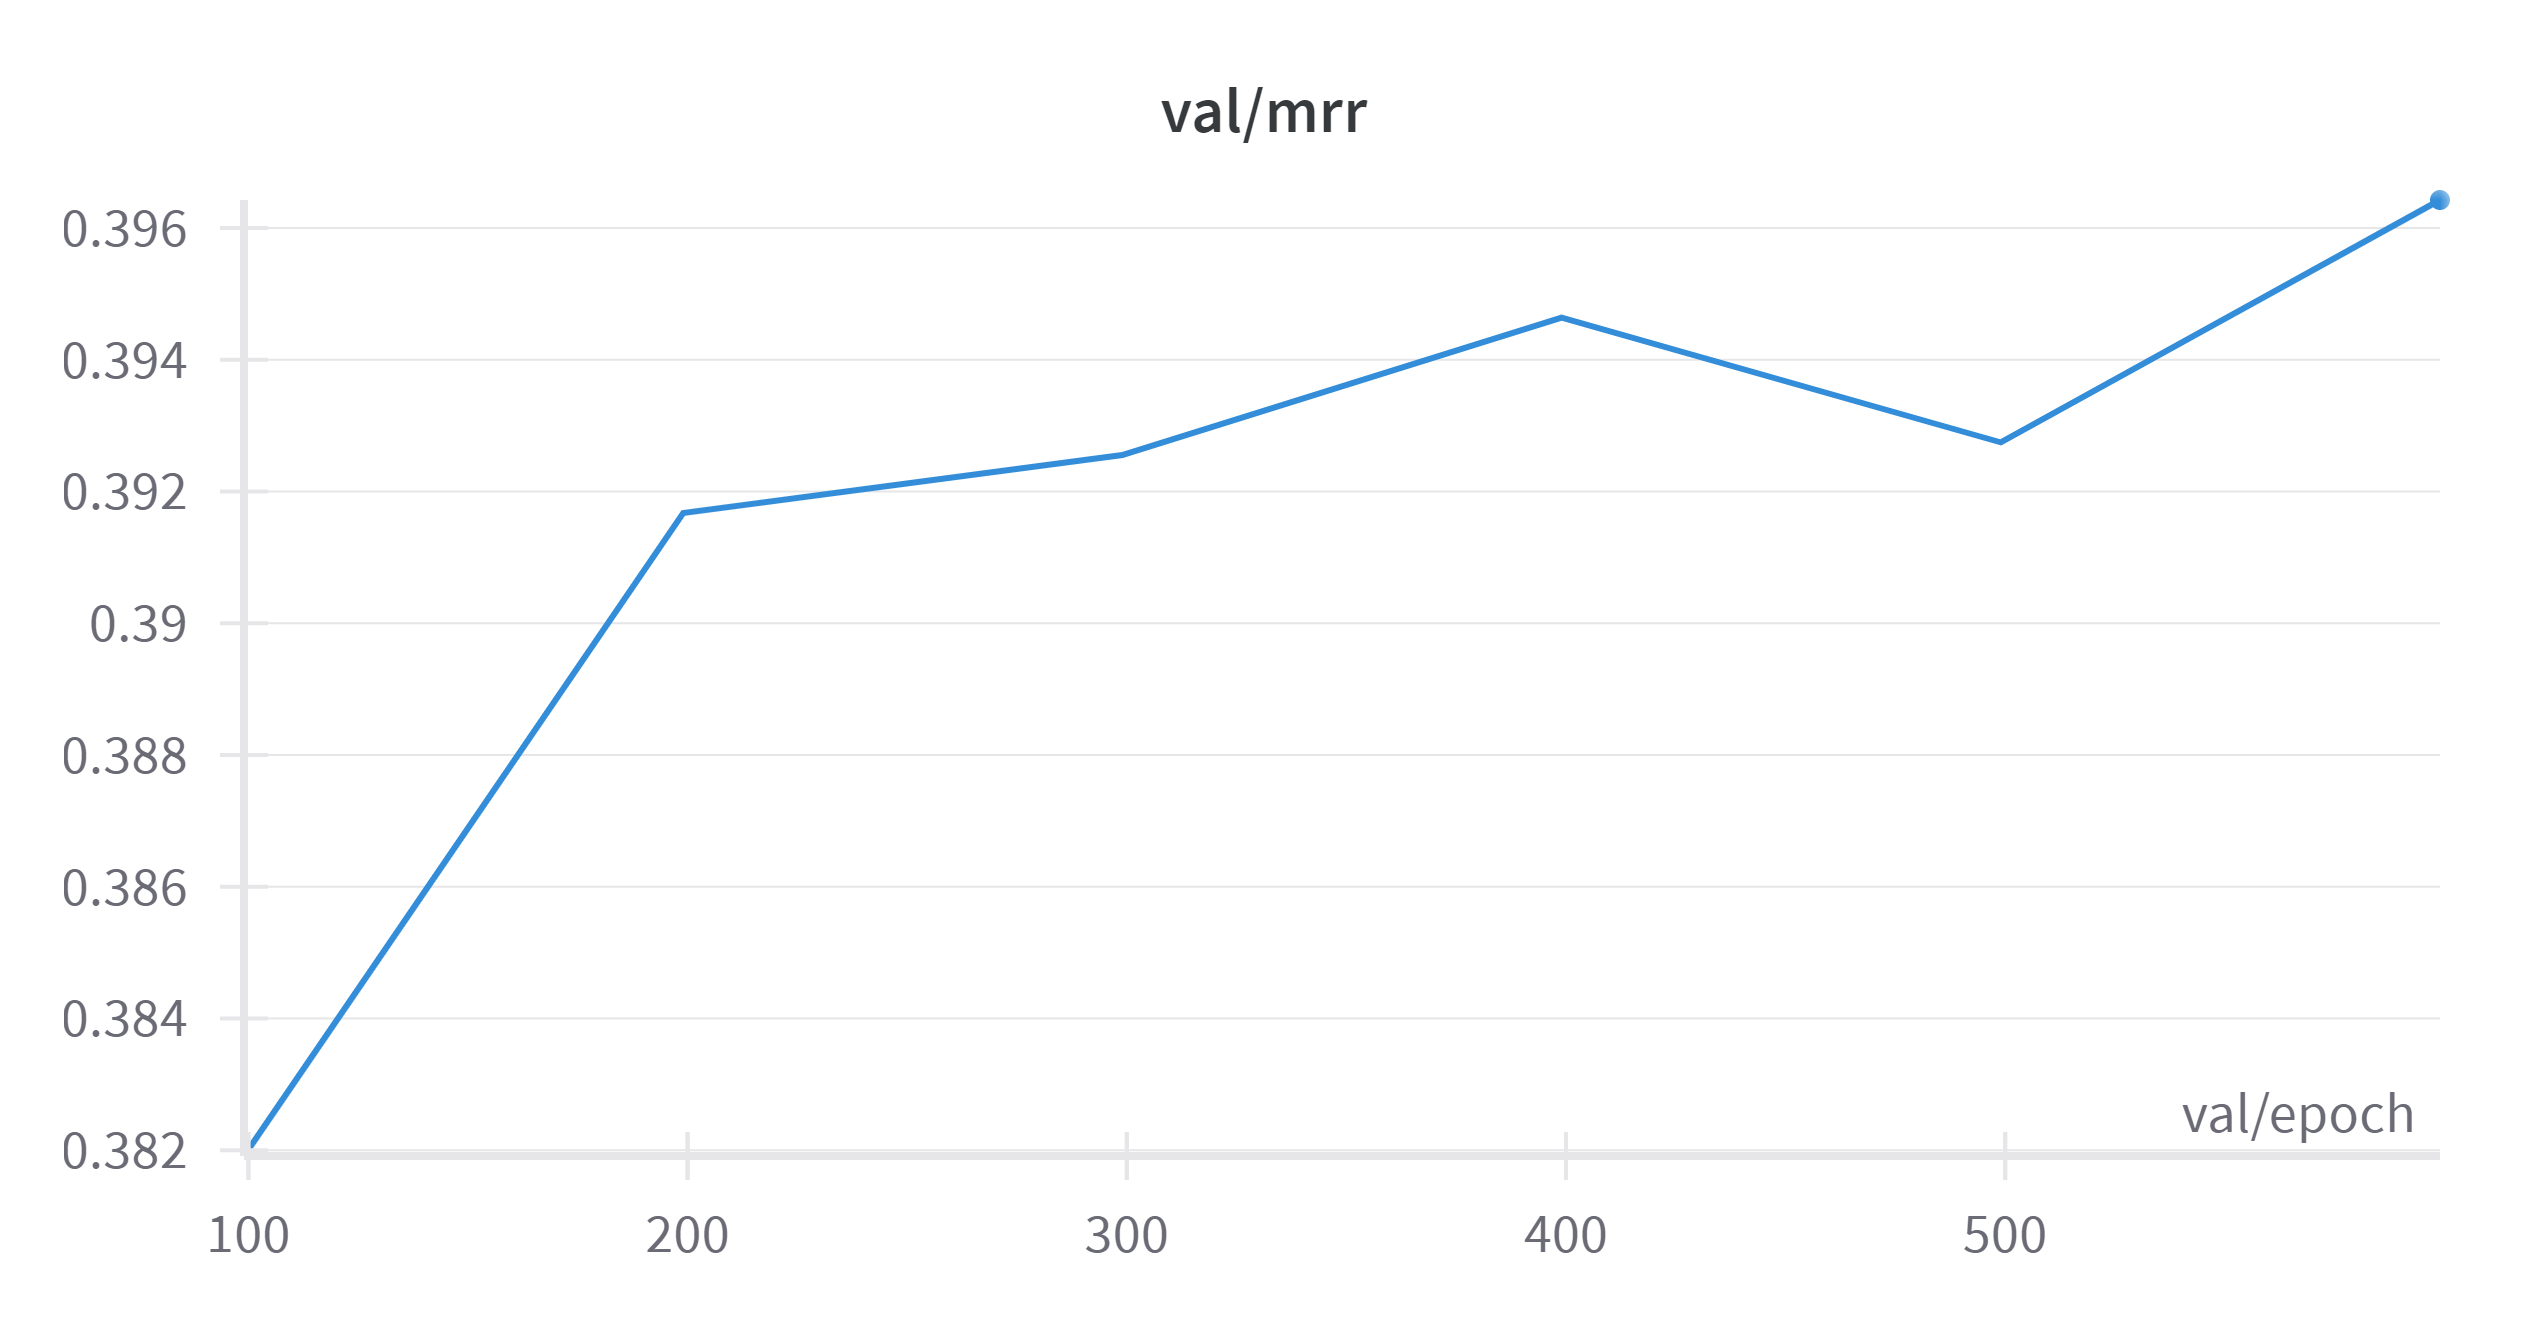
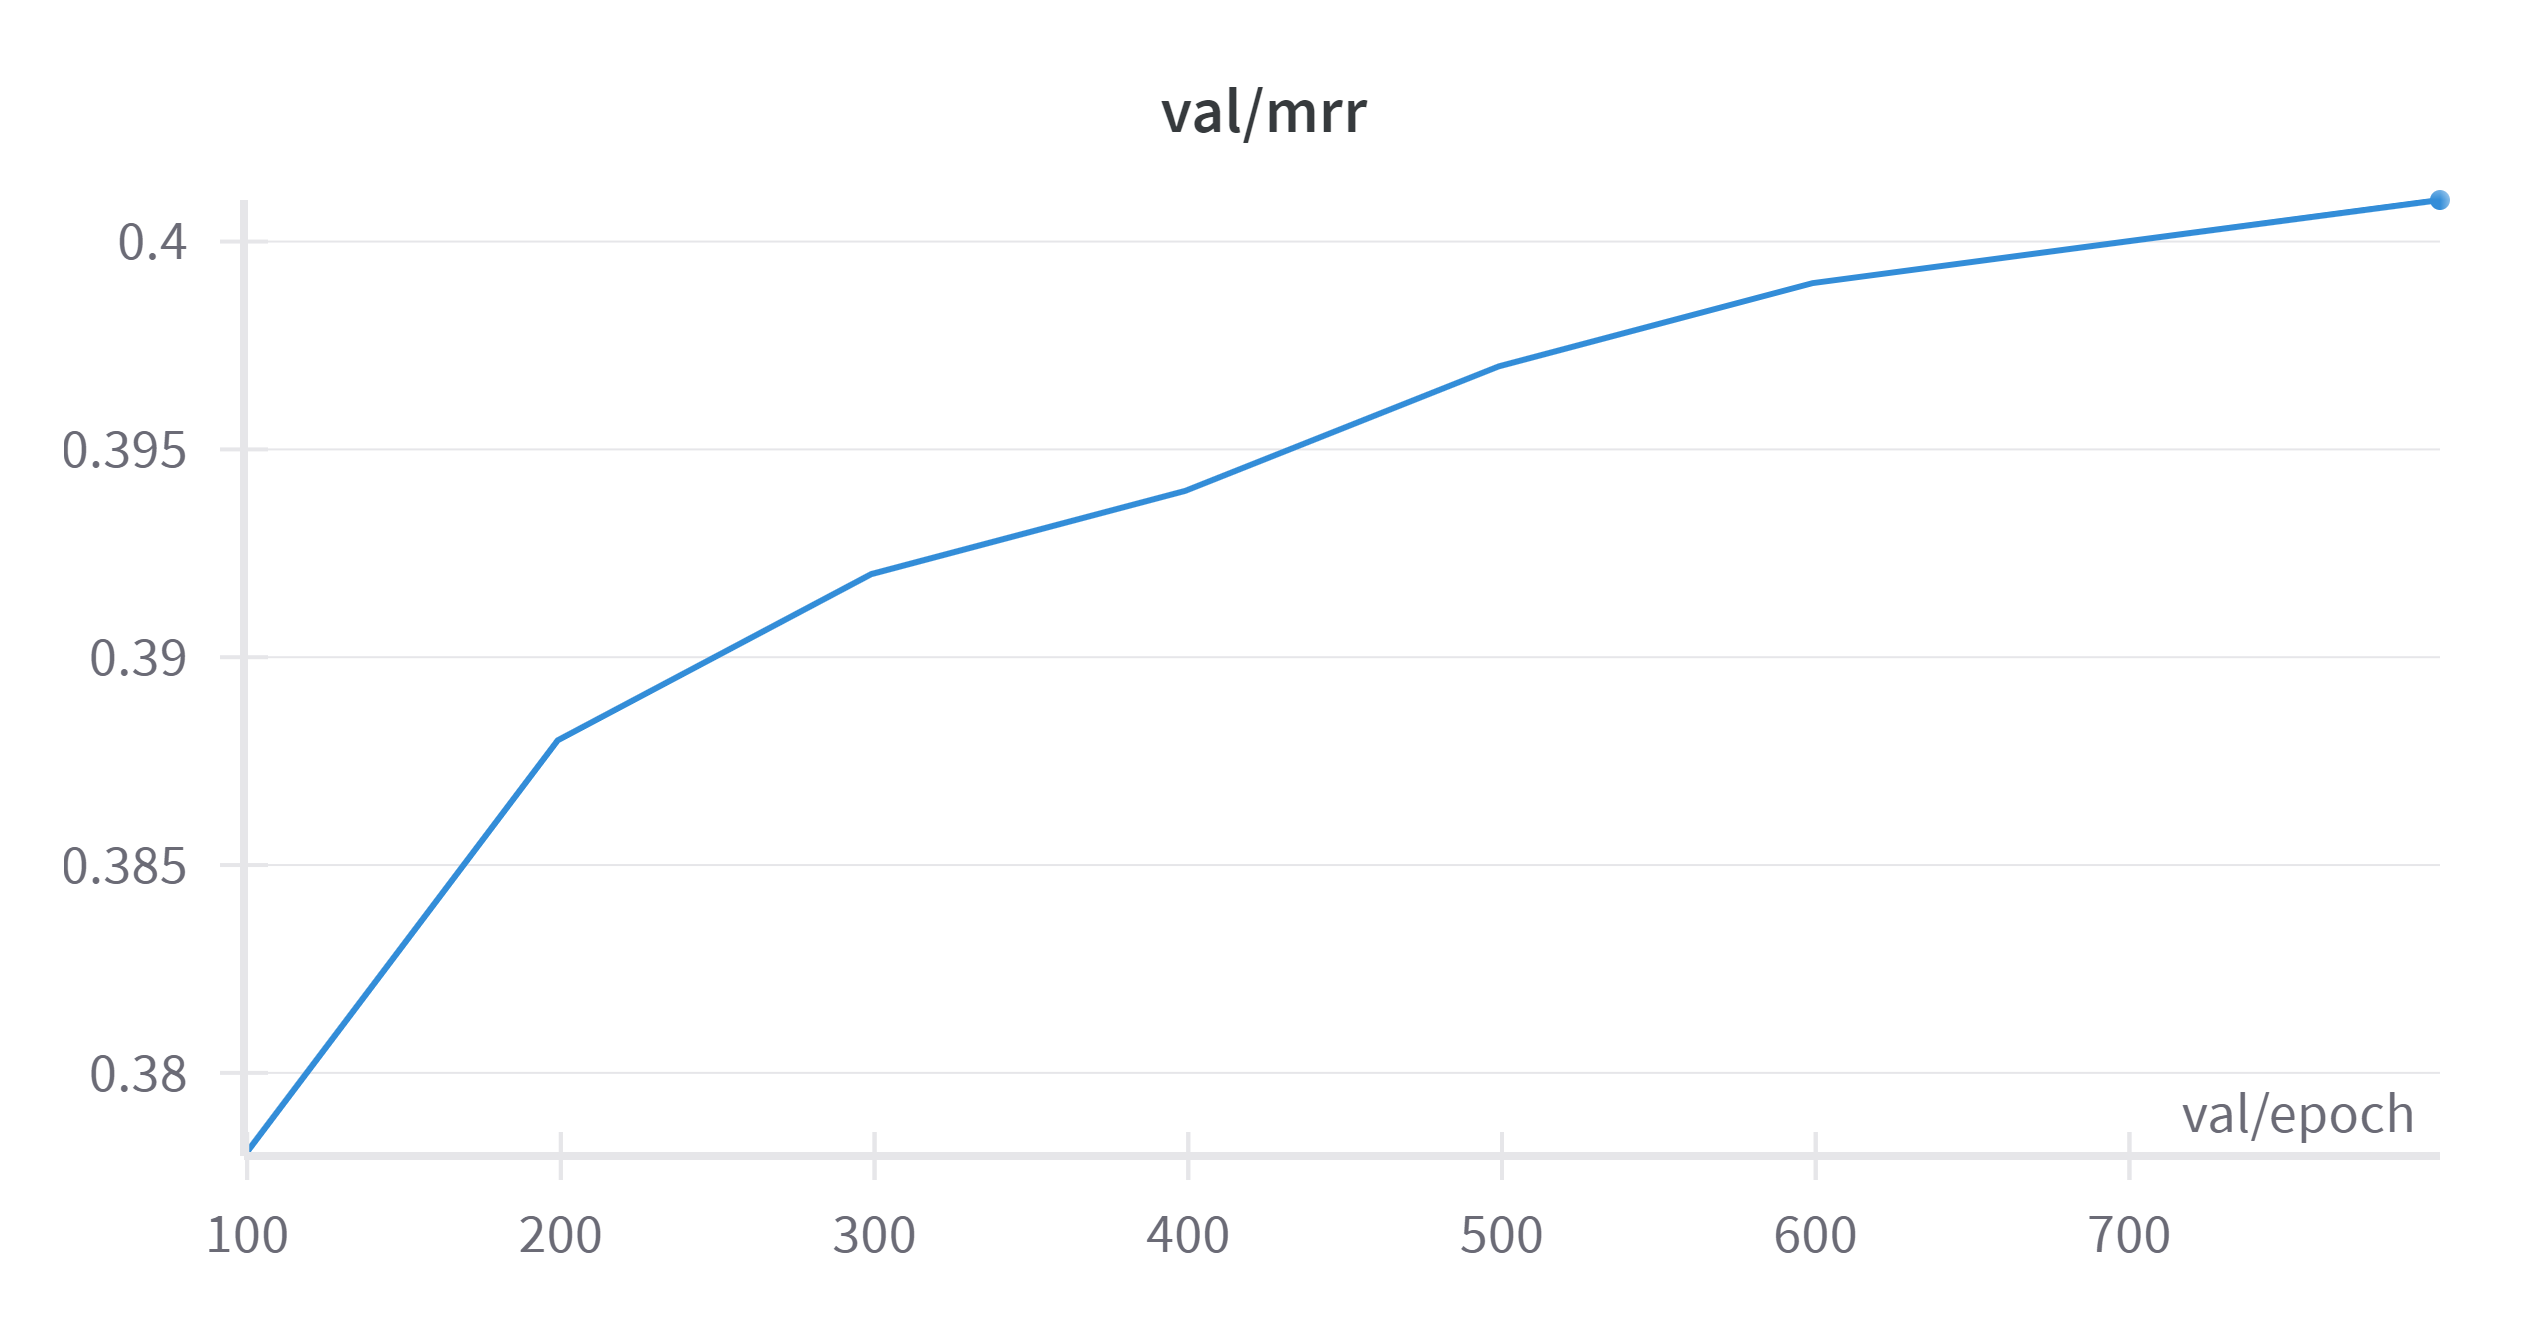
修改 SimplE 实现

diff --git a/pybind11_ke/module/model/SimplE.py b/pybind11_ke/module/model/SimplE.py
@@ -91,55 +91,94 @@ class SimplE(Model):
         
         #: 实体嵌入向量和关系嵌入向量的维度
         self.dim: int = dim
-        #: 根据实体个数，创建的头实体嵌入
-        self.ent_h_embeddings: torch.nn.Embedding = nn.Embedding(self.ent_tol, self.dim)
-        #: 根据实体个数，创建的尾实体嵌入
-        self.ent_t_embeddings: torch.nn.Embedding = nn.Embedding(self.ent_tol, self.dim)
+
+        #: 根据实体个数，创建的实体嵌入
+        self.ent_embeddings: torch.nn.Embedding = nn.Embedding(self.ent_tol, self.dim * 2)
         #: 根据关系个数，创建的关系嵌入
-        self.rel_embeddings: torch.nn.Embedding = nn.Embedding(self.rel_tol, self.dim)
-        #: 根据关系个数，创建的逆关系嵌入
-        self.rel_inv_embeddings: torch.nn.Embedding = nn.Embedding(self.rel_tol, self.dim)
+        self.rel_embeddings: torch.nn.Embedding = nn.Embedding(self.rel_tol, self.dim * 2)
 
-        sqrt_size = 6.0 / math.sqrt(self.dim)
-        nn.init.uniform_(self.ent_h_embeddings.weight.data, -sqrt_size, sqrt_size)
-        nn.init.uniform_(self.ent_t_embeddings.weight.data, -sqrt_size, sqrt_size)
-        nn.init.uniform_(self.rel_embeddings.weight.data, -sqrt_size, sqrt_size)
-        nn.init.uniform_(self.rel_inv_embeddings.weight.data, -sqrt_size, sqrt_size)
-
-    @override   
-    def forward(
-        self,
-        data: dict[str, typing.Union[torch.Tensor, str]]) -> torch.Tensor:
+        nn.init.xavier_uniform_(self.ent_embeddings.weight.data)
+        nn.init.xavier_uniform_(self.rel_embeddings.weight.data)
         
         """
         定义每次调用时执行的计算。
         :py:class:`torch.nn.Module` 子类必须重写 :py:meth:`torch.nn.Module.forward`。
         利用 :py:func:`torch.clamp` 裁剪最后的的得分，防止遇到 NaN 问题。
+        """
+
+    @override
+    def forward(
+        self,
+        triples: torch.Tensor,
+        negs: torch.Tensor = None,
+        mode: str = 'single') -> torch.Tensor:
         
-        :param data: 数据。
-        :type data: dict[str, typing.Union[torch.Tensor, str]]
+        """
+        定义每次调用时执行的计算。
+        :py:class:`torch.nn.Module` 子类必须重写 :py:meth:`torch.nn.Module.forward`。
+        
+        :param triples: 正确的三元组
+        :type triples: torch.Tensor
+        :param negs: 负三元组类别
+        :type negs: torch.Tensor
+        :param mode: 模式
+        :type triples: str
+        :returns: 三元组的得分
+        :rtype: torch.Tensor
+		"""
+
+        head_emb, relation_emb, tail_emb = self.tri2emb(triples, negs, mode)
+        score = self._calc(head_emb, relation_emb, tail_emb)
+        return score
+
+    def _calc(
+        self,
+        h: torch.Tensor,
+        r: torch.Tensor,
+        t: torch.Tensor) -> torch.Tensor:
+        
+        """计算 SimplE 的评分函数。
+        
+        :param h: 头实体的向量。
+        :type h: torch.Tensor
+        :param r: 关系的向量。
+        :type r: torch.Tensor
+        :param t: 尾实体的向量。
+        :type t: torch.Tensor
         :returns: 三元组的得分
         :rtype: torch.Tensor
         """
 
-        batch_h = data['batch_h']
-        batch_t = data['batch_t']
-        batch_r = data['batch_r']
-
-        hh_embs = self.ent_h_embeddings(batch_h)
-        ht_embs = self.ent_h_embeddings(batch_t)
-        th_embs = self.ent_t_embeddings(batch_h)
-        tt_embs = self.ent_t_embeddings(batch_t)
-        r_embs = self.rel_embeddings(batch_r)
-        r_inv_embs = self.rel_inv_embeddings(batch_r)
+        hh_embs, th_embs = torch.chunk(h, 2, dim=-1)
+        r_embs, r_inv_embs = torch.chunk(r, 2, dim=-1)
+        ht_embs, tt_embs = torch.chunk(t, 2, dim=-1)
 
         scores1 = torch.sum(hh_embs * r_embs * tt_embs, -1)
         scores2 = torch.sum(ht_embs * r_inv_embs * th_embs, -1)
-
+        
         # Without clipping, we run into NaN problems.
         # 基于论文作者的实现。
         return torch.clamp((scores1 + scores2) / 2, -20, 20)
+
+    @override
+    def predict(
+        self,
+        data: dict[str, typing.Union[torch.Tensor,str]],
+        mode) -> torch.Tensor:
         
+        """SimplE 的推理方法。
+        
+        :param data: 数据。
+        :type data: dict[str, typing.Union[torch.Tensor,str]]
+        :returns: 三元组的得分
+        :rtype: torch.Tensor
+        """
+
+        triples = data["positive_sample"]
+        head_emb, relation_emb, tail_emb = self.tri2emb(triples, mode=mode)
+        score = self._calc(head_emb, relation_emb, tail_emb)
+        return score
+
     def regularization(
         self,
         data: dict[str, typing.Union[torch.Tensor, str]]) -> torch.Tensor:
@@ -152,41 +191,26 @@ class SimplE(Model):
         :rtype: torch.Tensor
         """
 
-        batch_h = data['batch_h']
-        batch_t = data['batch_t']
-        batch_r = data['batch_r']
-
-        hh_embs = self.ent_h_embeddings(batch_h)
-        ht_embs = self.ent_h_embeddings(batch_t)
-        th_embs = self.ent_t_embeddings(batch_h)
-        tt_embs = self.ent_t_embeddings(batch_t)
-        r_embs = self.rel_embeddings(batch_r)
-        r_inv_embs = self.rel_inv_embeddings(batch_r)
-
-        regul = (torch.mean(hh_embs ** 2) + 
-                 torch.mean(ht_embs ** 2) + 
-                 torch.mean(th_embs ** 2) +
-                 torch.mean(tt_embs ** 2) +
-                 torch.mean(r_embs ** 2) +
-                 torch.mean(r_inv_embs ** 2)) / 6
+        pos_sample = data["positive_sample"]
+        neg_sample = data["negative_sample"]
+        mode = data["mode"]
+        pos_head_emb, pos_relation_emb, pos_tail_emb = self.tri2emb(pos_sample)
+        if mode == "bern":
+            neg_head_emb, neg_relation_emb, neg_tail_emb = self.tri2emb(neg_sample)
+        else:
+            neg_head_emb, neg_relation_emb, neg_tail_emb = self.tri2emb(pos_sample, neg_sample, mode)
+            
+        pos_regul = (torch.mean(pos_head_emb ** 2) + 
+                     torch.mean(pos_relation_emb ** 2) + 
+                     torch.mean(pos_tail_emb ** 2)) / 3
+                     
+        neg_regul = (torch.mean(neg_head_emb ** 2) + 
+                     torch.mean(neg_relation_emb ** 2) + 
+                     torch.mean(neg_tail_emb ** 2)) / 3
+                     
+        regul = (pos_regul + neg_regul) / 2
 
         return regul
-
-    @override
-    def predict(
-        self,
-        data: dict[str, typing.Union[torch.Tensor,str]]) -> np.ndarray:
-
-        """SimplE 的推理方法。
-        
-        :param data: 数据。
-        :type data: dict[str, typing.Union[torch.Tensor,str]]
-        :returns: 三元组的得分
-        :rtype: numpy.ndarray
-        """
-        
-        score = -self.forward(data)
-        return score.cpu().data.numpy()
 
 def get_simple_hpo_config() -> dict[str, dict[str, typing.Any]]:
 

diff --git a/examples/SimplE/single_gpu_simple_WN18RR_wandb.py b/examples/SimplE/single_gpu_simple_WN18RR_wandb.py
@@ -9,31 +9,29 @@ SimplE-WN18RR-single-gpu-wandb
 
 导入数据
 -----------------
-pybind11-OpenKE 有两个工具用于导入数据: :py:class:`pybind11_ke.data.TrainDataLoader` 和
-:py:class:`pybind11_ke.data.TestDataLoader`。
+pybind11-OpenKE 有两个工具用于导入数据: :py:class:`pybind11_ke.data.KGEDataLoader`。
 """
 
 from pybind11_ke.utils import WandbLogger
-from pybind11_ke.config import Trainer, Tester
+from pybind11_ke.data import KGEDataLoader, BernSampler, TradTestSampler
 from pybind11_ke.module.model import SimplE
 from pybind11_ke.module.loss import SoftplusLoss
 from pybind11_ke.module.strategy import NegativeSampling
-from pybind11_ke.data import TrainDataLoader, TestDataLoader
+from pybind11_ke.config import TradTrainer, Tester
 
 ######################################################################
 # 首先初始化 :py:class:`pybind11_ke.utils.WandbLogger` 日志记录器，它是对 wandb 初始化操作的一层简单封装。
 
 wandb_logger = WandbLogger(
 	project="pybind11-ke",
-	name="simple",
+	name="SimplE-WN18RR",
 	config=dict(
 		in_path = '../../benchmarks/WN18RR/',
-		nbatches = 100,
-		threads = 4,
-		sampling_mode = 'normal',
-		bern = True,
+		batch_size = 4096,
 		neg_ent = 25,
-		neg_rel = 0,
+		test = True,
+		test_batch_size = 10,
+		num_workers = 16,
 		dim = 200,
 		regul_rate = 1.0,
 		use_gpu = True,
@@ -41,7 +39,6 @@ wandb_logger = WandbLogger(
 		epochs = 2000,
 		lr = 0.5,
 		opt_method = 'adagrad',
-		test = True,
 		valid_interval = 100,
 		log_interval = 100,
 		save_interval = 100,
@@ -53,17 +50,18 @@ config = wandb_logger.config
 
 ######################################################################
 # pybind11-KE 提供了很多数据集，它们很多都是 KGE 原论文发表时附带的数据集。
-# :py:class:`pybind11_ke.data.TrainDataLoader` 包含 ``in_path`` 用于传递数据集目录。
+# :py:class:`pybind11_ke.data.KGEDataLoader` 包含 ``in_path`` 用于传递数据集目录。
 
 # dataloader for training
-train_dataloader = TrainDataLoader(
+dataloader = KGEDataLoader(
 	in_path = config.in_path, 
-	nbatches = config.nbatches,
-	threads = config.threads, 
-	sampling_mode = config.sampling_mode, 
-	bern = config.bern,
+	batch_size = config.batch_size,
 	neg_ent = config.neg_ent,
-	neg_rel = config.neg_rel
+	test = config.test,
+	test_batch_size = config.test_batch_size,
+	num_workers = config.num_workers,
+	train_sampler = BernSampler,
+	test_sampler = TradTestSampler
 )
 
 ######################################################################
@@ -79,8 +77,8 @@ train_dataloader = TrainDataLoader(
 
 # define the model
 simple = SimplE(
-	ent_tol = train_dataloader.get_ent_tol(),
-	rel_tol = train_dataloader.get_rel_tol(),
+	ent_tol = dataloader.get_ent_tol(),
+	rel_tol = dataloader.get_rel_tol(),
 	dim = config.dim
 )
 
@@ -100,7 +98,6 @@ simple = SimplE(
 model = NegativeSampling(
 	model = simple, 
 	loss = SoftplusLoss(),
-	batch_size = train_dataloader.get_batch_size(), 
 	regul_rate = config.regul_rate
 )
 
@@ -111,20 +108,16 @@ model = NegativeSampling(
 ######################################################################
 # 训练模型
 # -------------
-# pybind11-OpenKE 将训练循环包装成了 :py:class:`pybind11_ke.config.Trainer`，
-# 可以运行它的 :py:meth:`pybind11_ke.config.Trainer.run` 函数进行模型学习；
+# pybind11-OpenKE 将训练循环包装成了 :py:class:`pybind11_ke.config.TradTrainer`，
+# 可以运行它的 :py:meth:`pybind11_ke.config.TradTrainer.run` 函数进行模型学习；
 # 也可以通过传入 :py:class:`pybind11_ke.config.Tester`，
-# 使得训练器能够在训练过程中评估模型；:py:class:`pybind11_ke.config.Tester` 使用
-# :py:class:`pybind11_ke.data.TestDataLoader` 作为数据采样器。
-
-# dataloader for test
-test_dataloader = TestDataLoader(in_path = config.in_path)
+# 使得训练器能够在训练过程中评估模型。
 
 # test the model
-tester = Tester(model = simple, data_loader = test_dataloader, use_gpu = config.use_gpu, device = config.device)
+tester = Tester(model = simple, data_loader = dataloader, use_gpu = config.use_gpu, device = config.device)
 
 # train the model
-trainer = Trainer(model = model, data_loader = train_dataloader, epochs = config.epochs,
+trainer = TradTrainer(model = model, data_loader = dataloader.train_dataloader(), epochs = config.epochs,
 	lr = config.lr, opt_method = config.opt_method, use_gpu = config.use_gpu, device = config.device,
 	tester = tester, test = config.test, valid_interval = config.valid_interval,
 	log_interval = config.log_interval, save_interval = config.save_interval,
